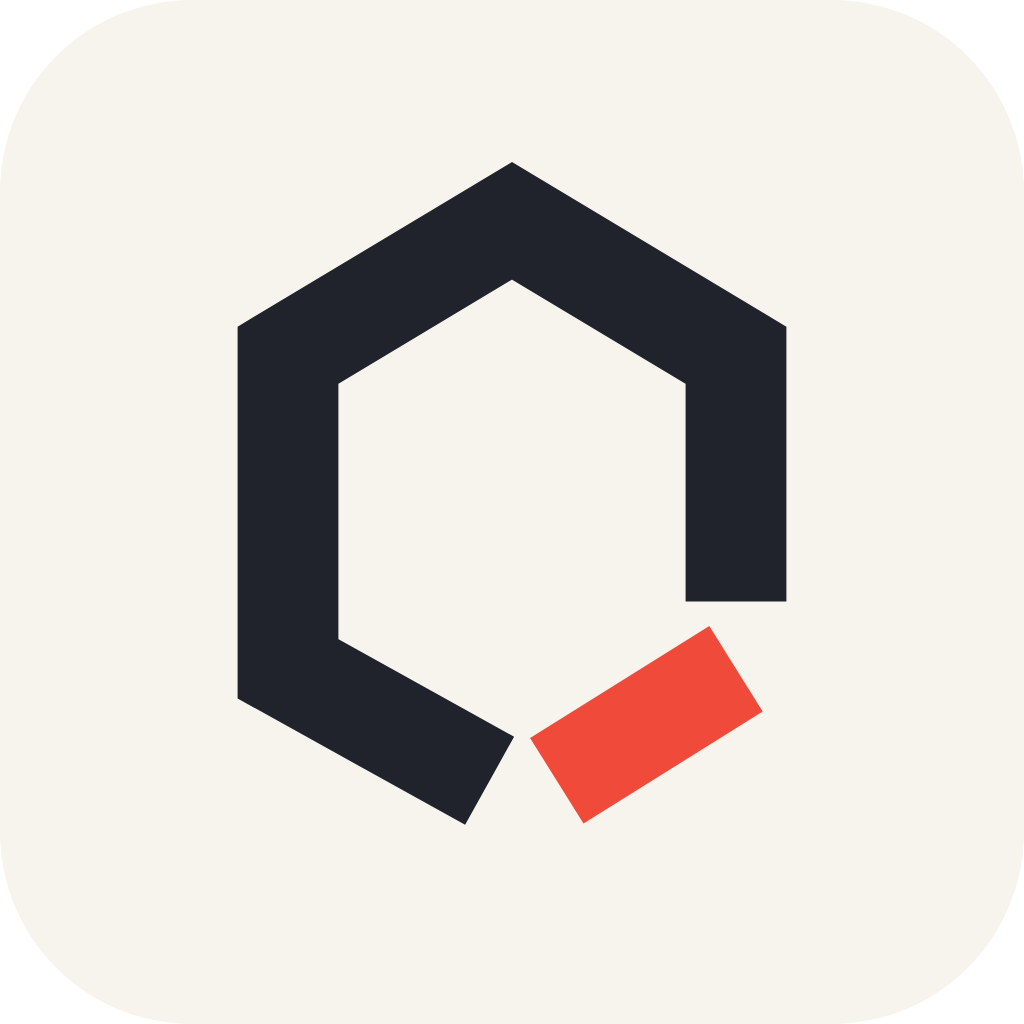
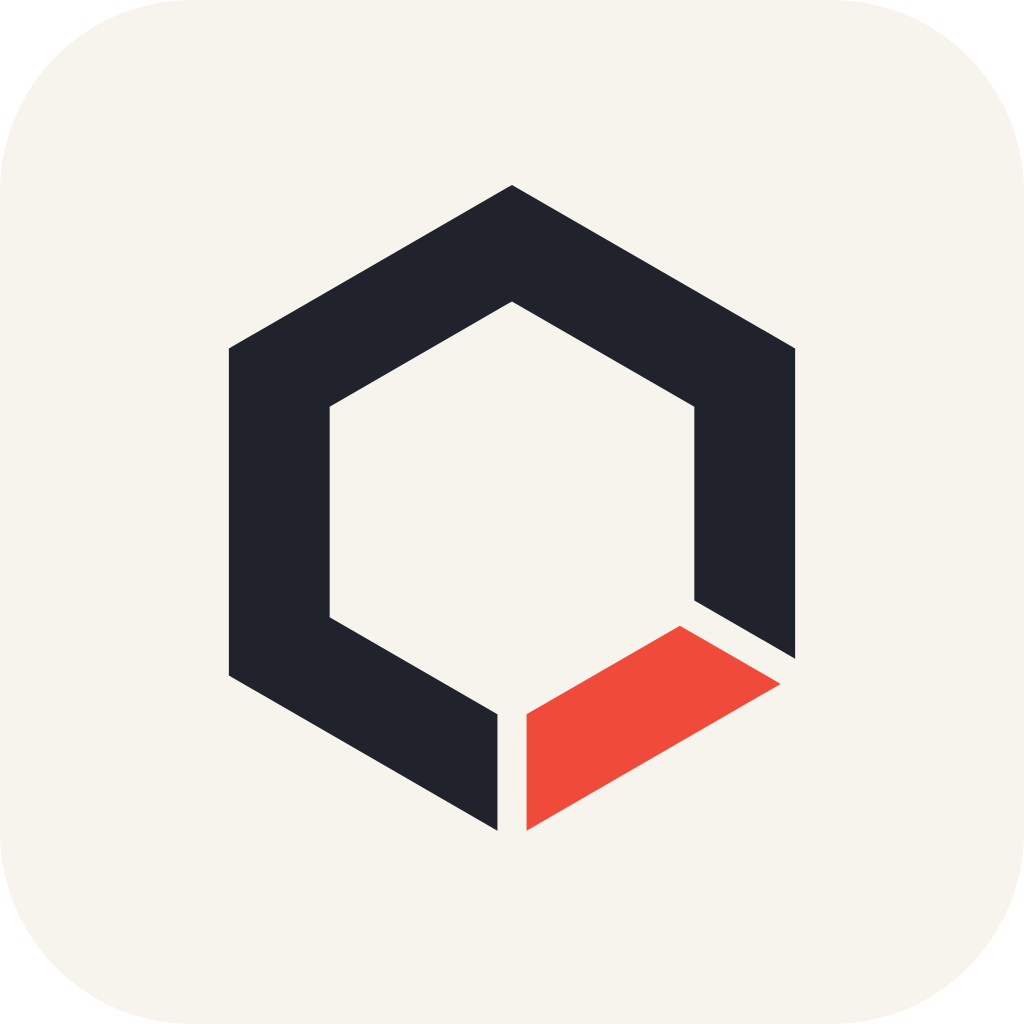
chore: 앱 아이콘 로고를 꼭짓점 가운데에서 자른 정육각형 띠로 교체
정육각형 띠를 아래 꼭짓점과 오른쪽 아래 꼭짓점의 가운데에서 일자로 잘라, 빨간 부분은 한 변을 그대로
떼어 낸 대칭 사다리꼴이 된다. 좌표는 app/assets/logo.py 가 계산한다.

Changed region(s): [[0.2188, 0.1562, 0.7812, 0.8125], [0.3438, 0.2812, 0.6562, 0.375], [0.3125, 0.375, 0.3438, 0.625]]

diff --git a/app/assets/logo.py b/app/assets/logo.py
@@ -1,0 +1,50 @@
+# Prints the two polygons of the ARTEL mark in a 64x64 box: the charcoal one, then the red one.
+# icon.svg and tray.svg place them; render each to PNG at 1024 and 64 px with transparent corners.
+# Usage: python3 logo.py [gap]
+# Regular pointy-top hexagon band of width W. Cut straight through the middle of the corners at B and LR
+# (the line from the centre through each vertex). Red is the B-LR edge, charcoal the other five edges.
+import math, sys
+cx, cy, R, W = 32.0, 32.0, 24.0, 9.0
+gap = float(sys.argv[1]) if len(sys.argv) > 1 else 3.0
+hw = W / 2
+c30 = math.cos(math.radians(30))
+V = {'T': (cx, cy-R), 'UR': (cx+R*c30, cy-R/2), 'LR': (cx+R*c30, cy+R/2),
+     'B': (cx, cy+R), 'LL': (cx-R*c30, cy+R/2), 'UL': (cx-R*c30, cy-R/2)}
+
+def offset_line(a, b, d):
+    ax, ay = V[a]; bx, by = V[b]; dx, dy = bx-ax, by-ay; L = math.hypot(dx, dy)
+    nx, ny = dy/L, -dx/L
+    mx, my = (ax+bx)/2, (ay+by)/2
+    if (mx+nx-cx)**2+(my+ny-cy)**2 < (mx-cx)**2+(my-cy)**2: nx, ny = -nx, -ny
+    return (ax+nx*d, ay+ny*d), (dx/L, dy/L)
+
+def meet(l1, l2):
+    (p, d), (q, e) = l1, l2
+    den = d[0]*e[1]-d[1]*e[0]
+    t = ((q[0]-p[0])*e[1]-(q[1]-p[1])*e[0]) / den
+    return (p[0]+t*d[0], p[1]+t*d[1])
+
+def corner(a, v, b, d):
+    return meet(offset_line(a, v, d), offset_line(v, b, d))
+
+def shift(p, line, dist):
+    # move p along the edge direction of `line`
+    (_, (ux, uy)) = line
+    return (p[0]+ux*dist, p[1]+uy*dist)
+
+h = gap / 2
+# red: edge B -> LR, both ends on the corner's centre line, pulled in by half the gap along the edge
+eo, ei = offset_line('B', 'LR', hw), offset_line('B', 'LR', -hw)
+red = [shift(corner('LL', 'B', 'LR', -hw), ei, h), shift(corner('LL', 'B', 'LR', hw), eo, h),
+       shift(corner('B', 'LR', 'UR', hw), eo, -h), shift(corner('B', 'LR', 'UR', -hw), ei, -h)]
+
+# charcoal: LR -> UR -> T -> UL -> LL -> B
+ro, ri = offset_line('LR', 'UR', hw), offset_line('LR', 'UR', -hw)
+lo, li = offset_line('LL', 'B', hw), offset_line('LL', 'B', -hw)
+outer = [shift(corner('B', 'LR', 'UR', hw), ro, h)] + [corner(a, v, b, hw) for a, v, b in
+         [('LR','UR','T'), ('UR','T','UL'), ('T','UL','LL'), ('UL','LL','B')]] + [shift(corner('LL', 'B', 'LR', hw), lo, -h)]
+inner = [shift(corner('LL', 'B', 'LR', -hw), li, -h)] + [corner(a, v, b, -hw) for a, v, b in
+         [('UL','LL','B'), ('T','UL','LL'), ('UR','T','UL'), ('LR','UR','T')]] + [shift(corner('B', 'LR', 'UR', -hw), ri, h)]
+
+fmt = lambda pts: ' '.join(f'{x:.2f},{y:.2f}' for x, y in pts)
+print(fmt(outer + inner)); print(fmt(red))
